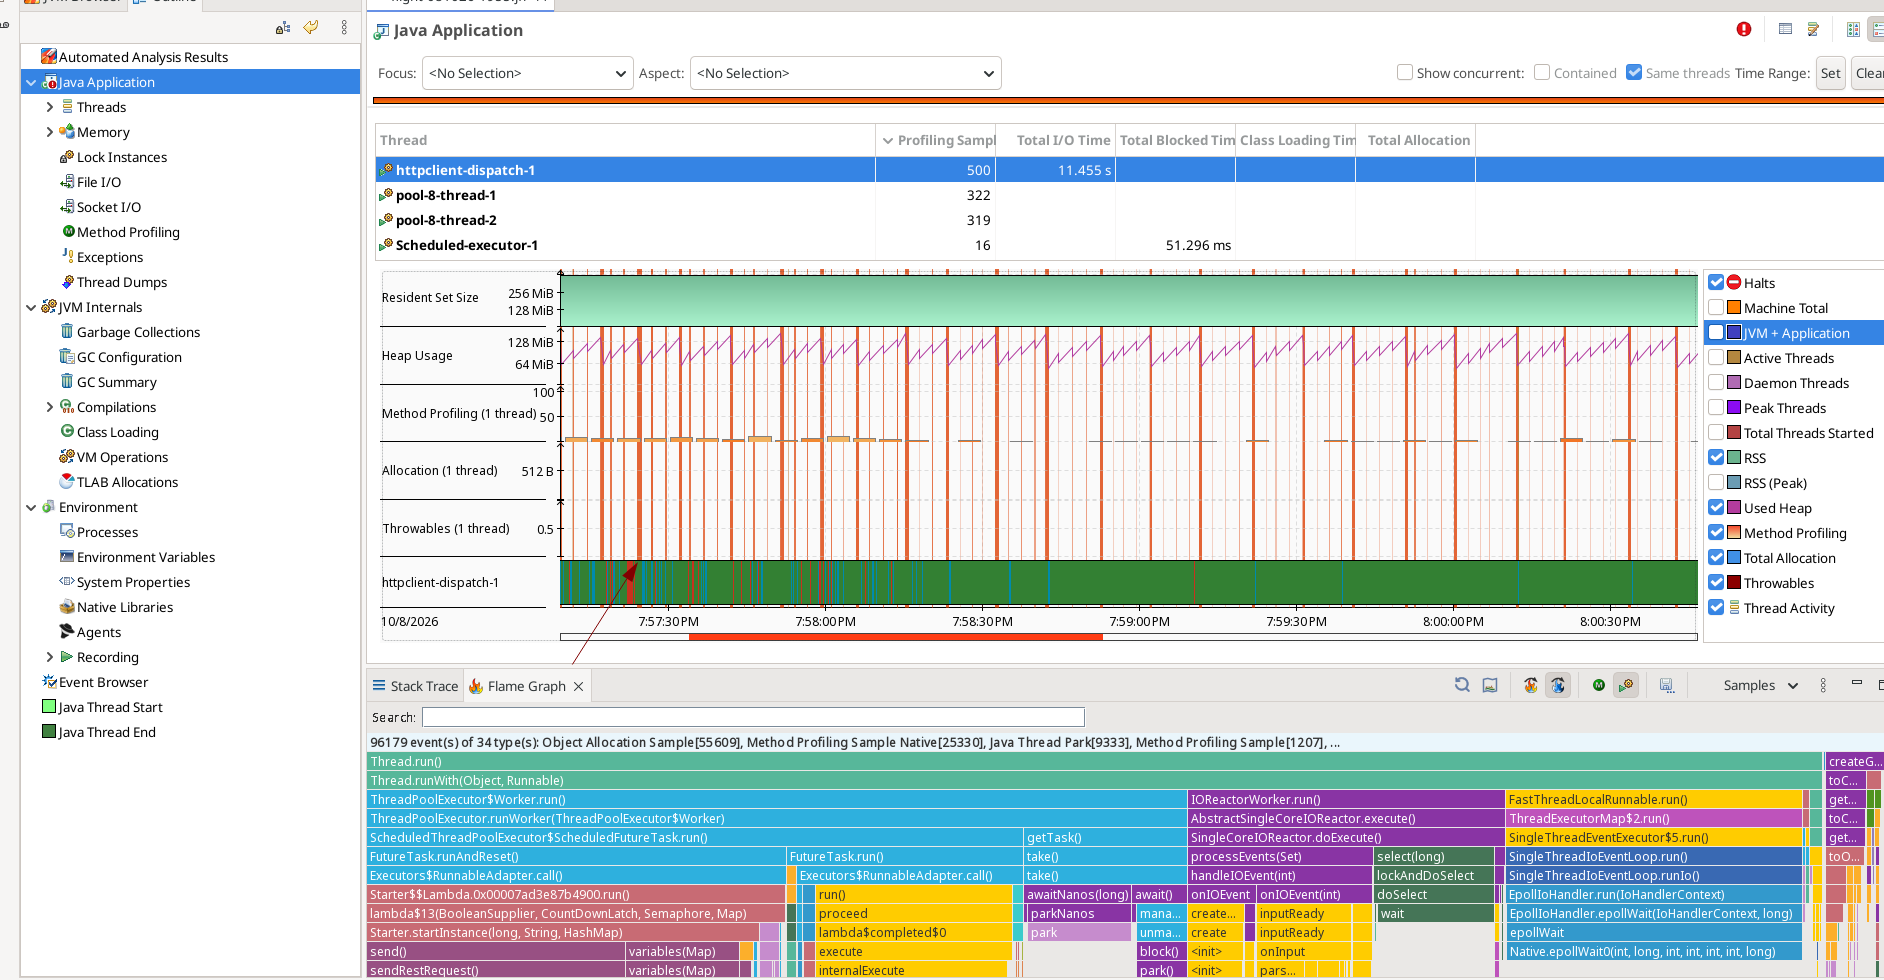
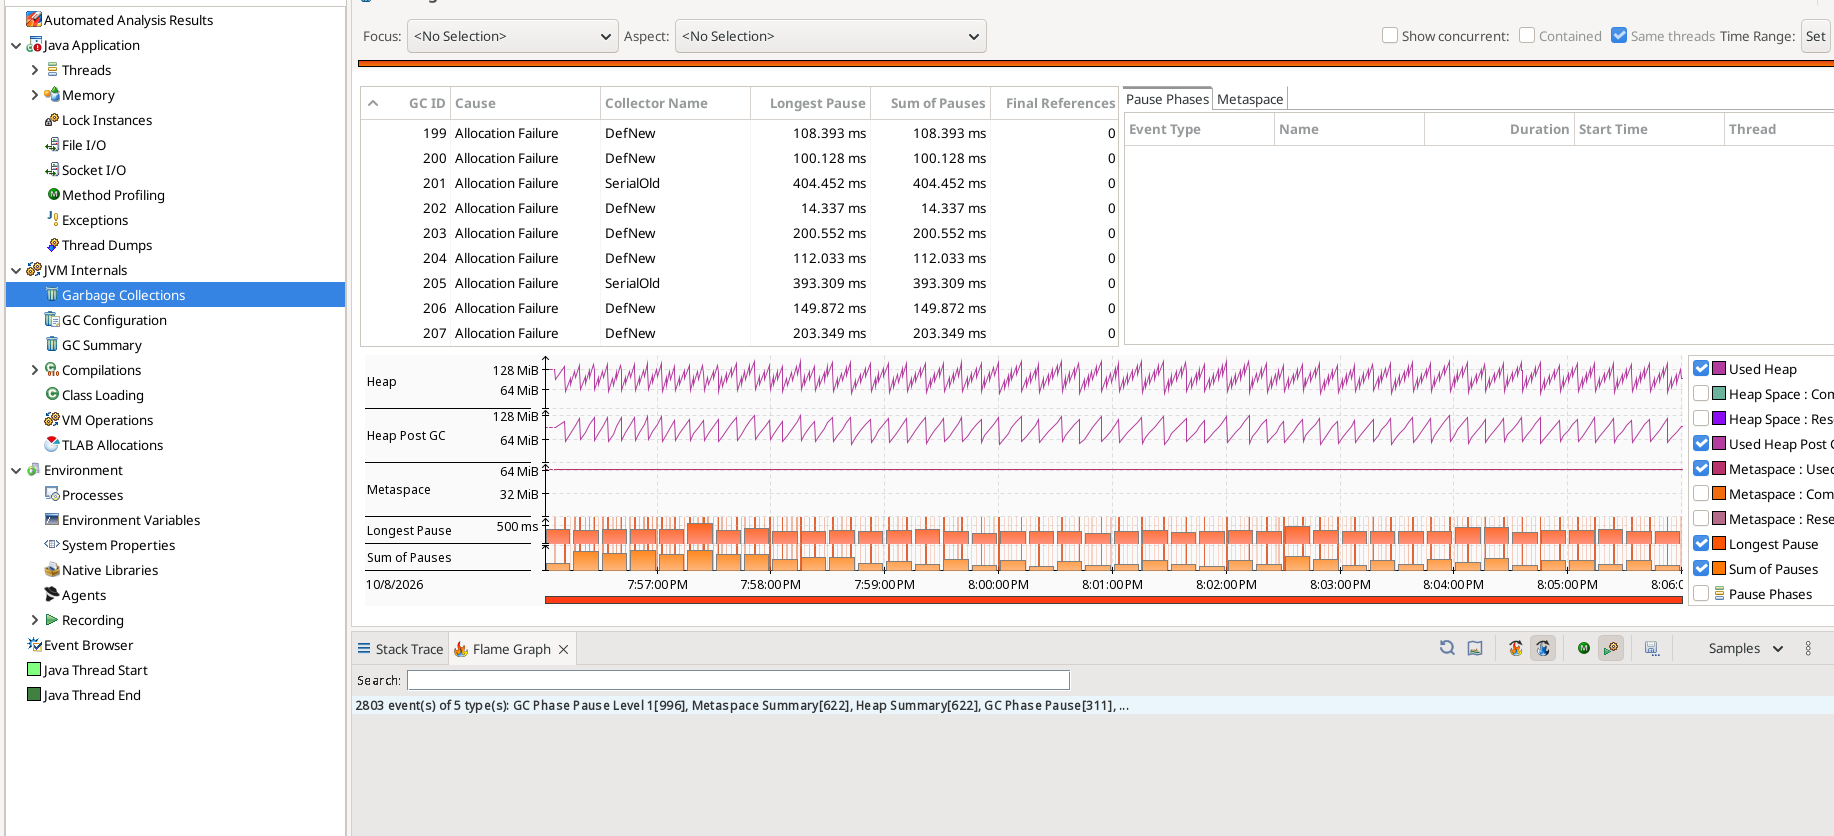
blog: ground the REST data availability post in the profiling evidence
Drop the k6 claims that lost their evidence with the realistic load
section and decide gateway versus client by the server-side search
latency instead. Add the GC summary and the thread view of the REST
starter, so the single I/O thread of the HTTP client and the GC share
of the pauses are backed by numbers. Use the p50 from the screenshot
for the gRPC data availability, describe the starter log as it is, and
conclude with the lessons and all follow-up issues, including the
Java client HTTP metrics feature request.

diff --git a/chaos-days/blog/2026-10-08-REST-Performance-validating-with-k6/index.md b/chaos-days/blog/2026-10-08-REST-Performance-validating-with-k6/index.md
@@ -15,11 +15,11 @@ authors:
 
 # Chaos Day Summary
 
-Under stress, the data availability reported by our load tester ("how long after creation can a process instance be found via the search API") was at the 90 second limit of the report window for REST, but only about 30 to 45 seconds for gRPC. Today we wanted to find out whether the REST API, the gateway, or our load tester is responsible.
+Under stress, the data availability reported by our load tester ("how long after creation can a process instance be found via the search API") was at the 90 second limit of the report window for REST, but only about 45 to 50 seconds for gRPC. Today we wanted to find out whether the REST API, the gateway, or our load tester is responsible.
 
 **TL;DR;** We found out that the 90 seconds delay seems to be a client-side effect, not a slow REST API.
 
-- The REST search endpoint is not slower in both of our tests. The server answers `/v2/process-instances/search` in about 70 ms in both setups, and k6 shows similar latencies for both protocols (once we fixed our k6 dashboard).
+- The REST search is not slower than with gRPC: the server answers `/v2/process-instances/search` in about 70 ms in both setups.
 - The starter (the load tester application that creates process instances) used one Camunda client for creating instances at 300 PI/s *and* for the availability check. With REST, the connection pool of that client was fully leased (100 connections) with about 2,900 requests waiting, so the availability search waited in the same queue. The starter measured about 15 seconds for a query that took the server 70 ms.
 - The availability check starts the next check only after the previous one completed, and returns at most 2,500 instances per check. With a 15 second cycle, it confirms at most about 167 instances per second. The rest is dropped after 90 seconds and recorded with the same metric as a real latency, so timeouts look like slow data availability.
 - A second Camunda client only for the read requests brings the search time seen by the starter from about 15 seconds to about 0.1 seconds ([camunda/camunda#65355](https://github.com/camunda/camunda/pull/65355), merged). The mean data availability of the REST test drops from about 97 seconds to about 30 to 65 seconds, in the same range as gRPC (about 45 seconds).
@@ -29,18 +29,14 @@ Under stress, the data availability reported by our load tester ("how long after
 
 ## Chaos Experiment
 
-We ran load tests with REST and with gRPC side by side and compared the server metrics. Note that different protocols are only used for starting and completing instances. For querying data, there only exists the REST API.
-
-Since last week we even have k6 load testing support (in our tool-box) for running load tests against the REST query API. This is useful for experiment and queries which do not need additional context.
-
-We measured the k6 search latencies (k6 runs read requests against the search API during the test), and the data availability measured by the starter.
+We ran load tests with REST and with gRPC side by side. We compared the server metrics, including the latency of the search requests, and the data availability measured by the starter. Note that the protocols are only used for starting and completing instances. For querying data, only the REST API exists.
 
 Regarding setup, as usual the clusters have three Camunda pods with 3 CPUs each and Elasticsearch as secondary storage.
 REST and gRPC with stress (max) load, each on 4 CPU nodes and on bigger, 8 CPU nodes. The CPU limit of the Camunda pods stayed the same.
 
 ### Expected
 
-Either the client (again, see [Investigating load tester limits](../2026-10-01-Investigating-load-tester-limits/index.md)) or the gateway is the problem. If REST API behaves worse for the k6 search requests too, the gateway is the suspect. If k6 looks the same for both protocols, the issue is in the load tester.
+Either the client (again, see [Investigating load tester limits](../2026-10-01-Investigating-load-tester-limits/index.md)) or the gateway is the problem. If the search requests are slower on the server side with REST, the Camunda REST API is the suspect. If the server side looks the same for both protocols, the issue is in the load tester.
 
 ### Actual
 
@@ -50,26 +46,29 @@ We were able to reproduce the larger data availability issues for REST under str
 
 ![Stress comparison](stress-comparison.png)
 
-- gRPC was fine and similar on both node sizes. Looking at the k6 metrics, the gRPC test on bigger nodes performed best.
-- For REST, the data availability was at the limit of the report window, 90 seconds. For gRPC it was about 30 seconds. This held for both REST setups.
-- k6 still showed REST performing better on bigger nodes, with less CPU throttling and less CPU used overall.
+- gRPC was fine and similar on both node sizes.
+- For REST, the data availability (p50 in the screenshot) was at the limit of the report window, 90 seconds. For gRPC it was about 52 seconds. This held for both REST setups.
 - The server side looked the same: the exporter backlog and the flush latency were similar, and the search request latencies were similar, or even a bit lower for REST.
-- The starter was throttled in about ~5-10% of the periods for REST, and the garbage collection took about 50 ms per second. We also saw regular halts of about 0.5 seconds, which can contribute but are not the root cause.
+- The starter was throttled in about 8% of the CPU periods for REST, and in almost none for gRPC.
+- The REST starter spent about 6% of its time in garbage collection pauses: 36 seconds in a 10 minute recording, with 63 full collections of about 370 ms on average and up to 570 ms. This can contribute to the delay, but it is not the root cause.
 
-![Stress CPU](stress-cpu.png)
-![Starter GC Pauses](gc-pauses.png)
+![CPU throttling per container in the four namespaces: the starter is throttled in about 8% of the periods for REST](stress-cpu.png)
 
-If the server is as fast for REST and the data is exported at the same pace, the high latency must come from how the starter measures it.
+![Garbage collection pauses of the REST starter over the 10 minute recording](gc-pauses.png)
+
+![Garbage collection summary of the same recording](gc-pauses2.png)
+
+If the server is as fast for REST and the data is exported at the same pace, the high latency most likely comes from how the starter measures it.
 
 #### How the starter measures data availability
 
 The starter keeps every created process instance in a map, and checks regularly which of them can be found through the search API. It remembers the creation time and records the time until the instance is found. Instances that are not found after 90 seconds are removed and recorded with their age.
 
-The starter logged the number of instances it was waiting for every 15 seconds, and this number kept increasing. A 15 second cycle was surprising: the configured interval is 250 ms. The next check is scheduled only after the previous one completed, so a cycle of 15 seconds means that the query itself took about 15 seconds. This was observable in the logs as well.
+The starter logs every scheduled check of the availability meter. In the logs, most checks are rescheduled with a delay of 0 ms instead of the configured 250 ms, and they are 5 to 23 seconds apart, about 15 seconds on average in this excerpt. The number of instances the starter was waiting for kept increasing. The next check is scheduled only after the previous one completed, and a query that takes longer than the interval is followed immediately by the next check. A cycle of about 15 seconds therefore means that the query itself took about 15 seconds.
 
 ![Starter log](starter-log.png)
 
-The metrics confirmed this. A snapshot during the stress runs:
+The metrics confirmed this. A snapshot during the stress runs (the data availability here is the mean, so it is a bit lower than the p50 of the screenshot above):
 
 | Namespace | Pending instances | Query duration seen by the starter | Mean data availability |
 |---|---|---|---|
@@ -87,25 +86,31 @@ Two effects follow from this:
 
 #### Why does the query take 15 seconds?
 
-The availability query uses the same Camunda client as the creation of process instances. With gRPC, the creation runs over gRPC and the client's HTTP connections are used by the search only. With REST, the starter sends about 300 requests per second over the same HTTP client, and the search has to wait for a free connection like any other request.
+The availability query uses the same Camunda client as the creation of process instances. With gRPC, the creation runs over gRPC and the client's HTTP connections are used by the search only. With REST, the starter sends about 300 requests per second over the same HTTP client, and the search has to queue behind them like any other request.
 
-The client metrics we added in the [previous chaos day as POC](../2026-10-01-Investigating-load-tester-limits/index.md) show it: the REST starter has all 100 connections of its pool leased and about 2,900 requests pending.
+The HTTP client metrics we added in the [previous chaos day](../2026-10-01-Investigating-load-tester-limits/index.md) show it. They exist only through a proof of concept in the starter ([camunda/camunda#64528](https://github.com/camunda/camunda/issues/64528) asks for a supported way). The REST starter has all 100 connections of its pool leased and about 2,900 requests pending.
 
 ![Stress HTTP Client](stress-http-client.png)
 
-Having a pool of ~2900 and completing ~180 requests per second means that most requests are waiting in the queue around (2900/180=) ~15-16 seconds, which explains the 15-second latency observed for the availability query.
+With about 2,900 pending requests and about 180 completed requests per second, a new request waits around 2,900 / 180 = 16 seconds in the queue (if it is processed in order). This matches the 15 seconds of the availability query.
+
+The queue is not only the pool of connections. A JFR recording of the REST starter shows that the client runs all its HTTP traffic through a single I/O thread (`httpclient-dispatch-1`, in a single-core I/O reactor). It has the most CPU samples, 500 of 1,207, ahead of the two threads that send the requests (about 320 each).
+
+![Threads of the REST starter in the JFR recording: the I/O thread of the HTTP client has the most samples](java-threads.png)
 
 We tried several things to confirm and fix it, with these results:
 
-1. A standalone starter that only calls the search API with 2,000+ process instance keys in the filter: about 2 seconds, compared to about 400 ms without a filter. Slower, but far from 15 seconds. k6 shows the same, so it is not specific to Java or the starter.
+1. A standalone starter that only calls the search API with 2,000+ process instance keys in the filter: about 2 seconds, compared to about 400 ms without a filter. Slower, but far from 15 seconds. A k6 script (a load testing tool) shows the same, so it is not specific to Java or the starter.
 2. A bigger connection pool (500 instead of 100), more threads for the data availability meter (5 instead of 1), and ten times the CPU for the starter (2500m instead of 250m): no visible change.
 3. A **second Camunda client only for the read requests**: the search time seen by the starter dropped from about 15 seconds to below 500 ms. The server execution time did not change, only the time until the starter code got its response.
+
+A bigger pool alone did not help, so the pool size is not the whole bottleneck, and the single I/O thread is a candidate. The second client has its own pool and its own I/O thread, so this experiment does not tell which of the two caused the queue.
 
 The second client separates the "loader" from the "reader" in the starter ([camunda/camunda#65355](https://github.com/camunda/camunda/pull/65355), merged), which also makes the application easier to reason about.
 
 #### With the separate client
 
-After the change was deployed to the REST test on 4 CPU nodes, the starter measures about 0.12 to 0.15 seconds for the availability query (before: 14.7 seconds). The mean data availability is now about 30 to 65 seconds (before: 97 seconds), which is in the range of gRPC (42 to 45 seconds). The REST Gateway API was not the reason for a higher data availability.
+After the change was deployed to the REST test on 4 CPU nodes, the starter measures about 0.12 to 0.15 seconds for the availability query (before: 14.7 seconds). The mean data availability is now about 30 to 65 seconds (before: 97 seconds), which is in the range of gRPC (mean of 42 to 45 seconds). The Camunda REST API was not the reason for a higher data availability.
 
 #### The remaining 45 seconds
 
@@ -113,14 +118,20 @@ Under stress, process instances still take about 45 seconds until they can be fo
 
 ## Conclusion
 
-The REST API and its search are not the problem. The data availability we saw for REST was dominated by our own load tester and client usage: the query that measures it waited in the same HTTP queue as the creation of process instances, took 15 seconds, and could only confirm a part of the waiting instances, so most of them ended at the 90 second limit.
+The Camunda REST API is not the reason for the higher data availability of the REST test. It was dominated by our own load tester: the query that measures it waited in the same client queue as the creation of process instances, took about 15 seconds, and could only confirm a part of the waiting instances. The rest ended at the 90 second limit, and the metric recorded these timeouts like real latencies. With a separate client, REST and gRPC show the same data availability, bounded by the exporter backlog under stress load.
 
 What we learned:
 
-- Under high load, reads and writes of a REST client compete for the same connections, and a metric measured through it measures the queue as well.
-- We need improved Camunda Client metrics to understand the queuing and latency effects under high load.
-- We need to improve our querying strategies to reduce the impact of high load on data availability, e.g. reducing the number of process instance keys in the filter or optimizing the search queries.
+- Under high load, reads and writes of a REST client compete for the same queue (connections and the I/O thread), and a metric measured through that client measures the queue as well.
+- Timeouts must stay visible in the latency metric, and should also be counted, so that a plateau at the limit is recognized as timeouts. Hiding them would have hidden this problem.
+- The client metrics were essential to see the queue, but we had to hack them in again. They need to be a supported feature of the Java client.
+- Searching with many process instance keys is expensive (about 2 seconds for 2,000 keys), so the load tester should query fewer keys.
 
 ## Found Bugs and Follow-ups
 
-- Use a separate Camunda client for the availability queries in the starter: [camunda/camunda#65355](https://github.com/camunda/camunda/pull/65355).
+- Separate Camunda client for the availability queries in the starter: [camunda/camunda#65355](https://github.com/camunda/camunda/pull/65355) (merged)
+- Make the data availability meter observable and robust: [camunda/camunda#65371](https://github.com/camunda/camunda/issues/65371)
+- Query fewer process instance keys for the data availability: [camunda/camunda#65520](https://github.com/camunda/camunda/issues/65520)
+- Log the effective starter and worker configuration: [camunda/camunda#65372](https://github.com/camunda/camunda/issues/65372)
+- Investigate the latency of searching with thousands of keys: [camunda/camunda#65373](https://github.com/camunda/camunda/issues/65373)
+- Expose the HTTP client metrics of the Java client: [camunda/camunda#64528](https://github.com/camunda/camunda/issues/64528)
